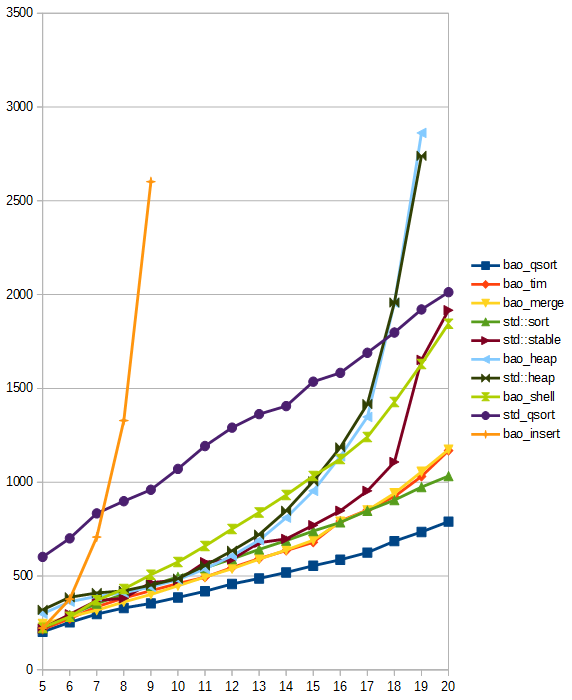
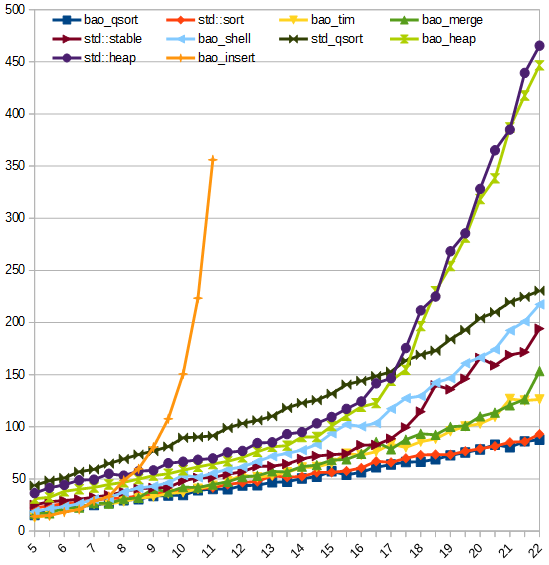
update benchmark image

diff --git a/README.md b/README.md
@@ -13,7 +13,7 @@ algorithm     | stable | Best  |  Average  | Worst | Memory |
 Insertion sort     |yes| n     | n^2       | n^2       | 1
 Heapsort           |no | n     | nlogn     | nlogn     | 1
 Shellsort          |no | nlogn | n^(4/3) ? | n^(4/3) ? | 1
-Introsort (qsort)  |no | n     | nlogn     | nlogn     | nlogn
+Introsort (qsort)  |no | n     | nlogn     | nlogn     | logn
 Mergesort          |yes| n     | nlogn     | nlogn     | n
 Mergesort in-place |yes| n     | n(logn)^2 | n(logn)^2 | logn
 Timsort            |yes| n     | nlogn     | nlogn     | n
@@ -80,8 +80,6 @@ bao_heap    |   22|  536|  594| 2096| 2103|  694|  602|  512| 1375|  601| 2115| 
 
 # Benchmark of random shuffle data 
 
-Benchmark data are generated by VS2015
-
 The x-axis is `log2(length)`
 
 The y-axis is `time / length * 1000000`
@@ -93,6 +91,8 @@ The y-axis is `time / length * 1000000`
 #### Sorting int
 
 [![](img/benchmark_int.png)](img/benchmark_int.png)
+
+
 
 # License
 
